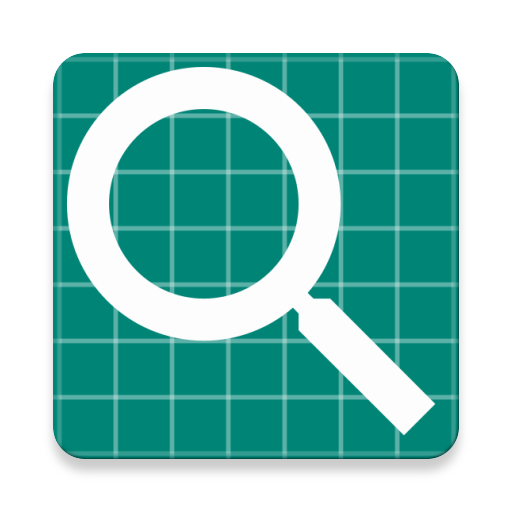
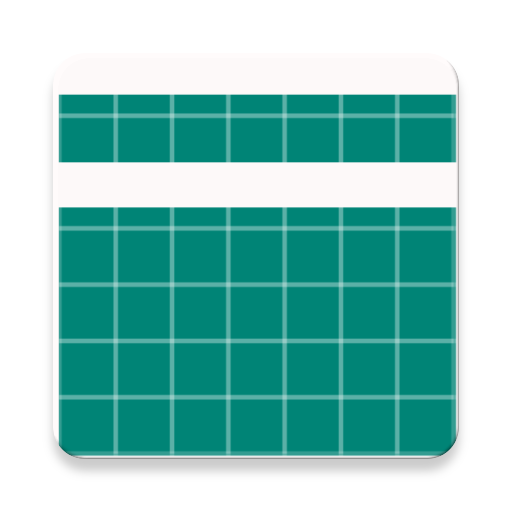
Searchbar and location button finished

Changed region(s): [[0.0938, 0.0938, 0.9062, 0.875], [0.1562, 0.875, 0.8438, 0.9062]]

diff --git a/app/src/main/java/com/conupods/OutdoorMaps/View/MapsActivity.java b/app/src/main/java/com/conupods/OutdoorMaps/View/MapsActivity.java
@@ -114,6 +114,14 @@ public class MapsActivity extends FragmentActivity implements OnMapReadyCallback
             }
         });
 
+        Button locationButton = findViewById(R.id.locationButton);
+        locationButton.setOnClickListener(new View.OnClickListener() {
+            @Override
+            public void onClick(View view) {
+                getDeviceCurrentLocation();
+            }
+        });
+
 
         mapView = mapFragment.getView();
     }
@@ -136,7 +144,7 @@ public class MapsActivity extends FragmentActivity implements OnMapReadyCallback
 
         if(permissionsGranted){
             mMap.setMyLocationEnabled(true);
-            mMap.getUiSettings().setMyLocationButtonEnabled(true);
+            mMap.getUiSettings().setMyLocationButtonEnabled(false);
 
 
             createLocationRequest();
